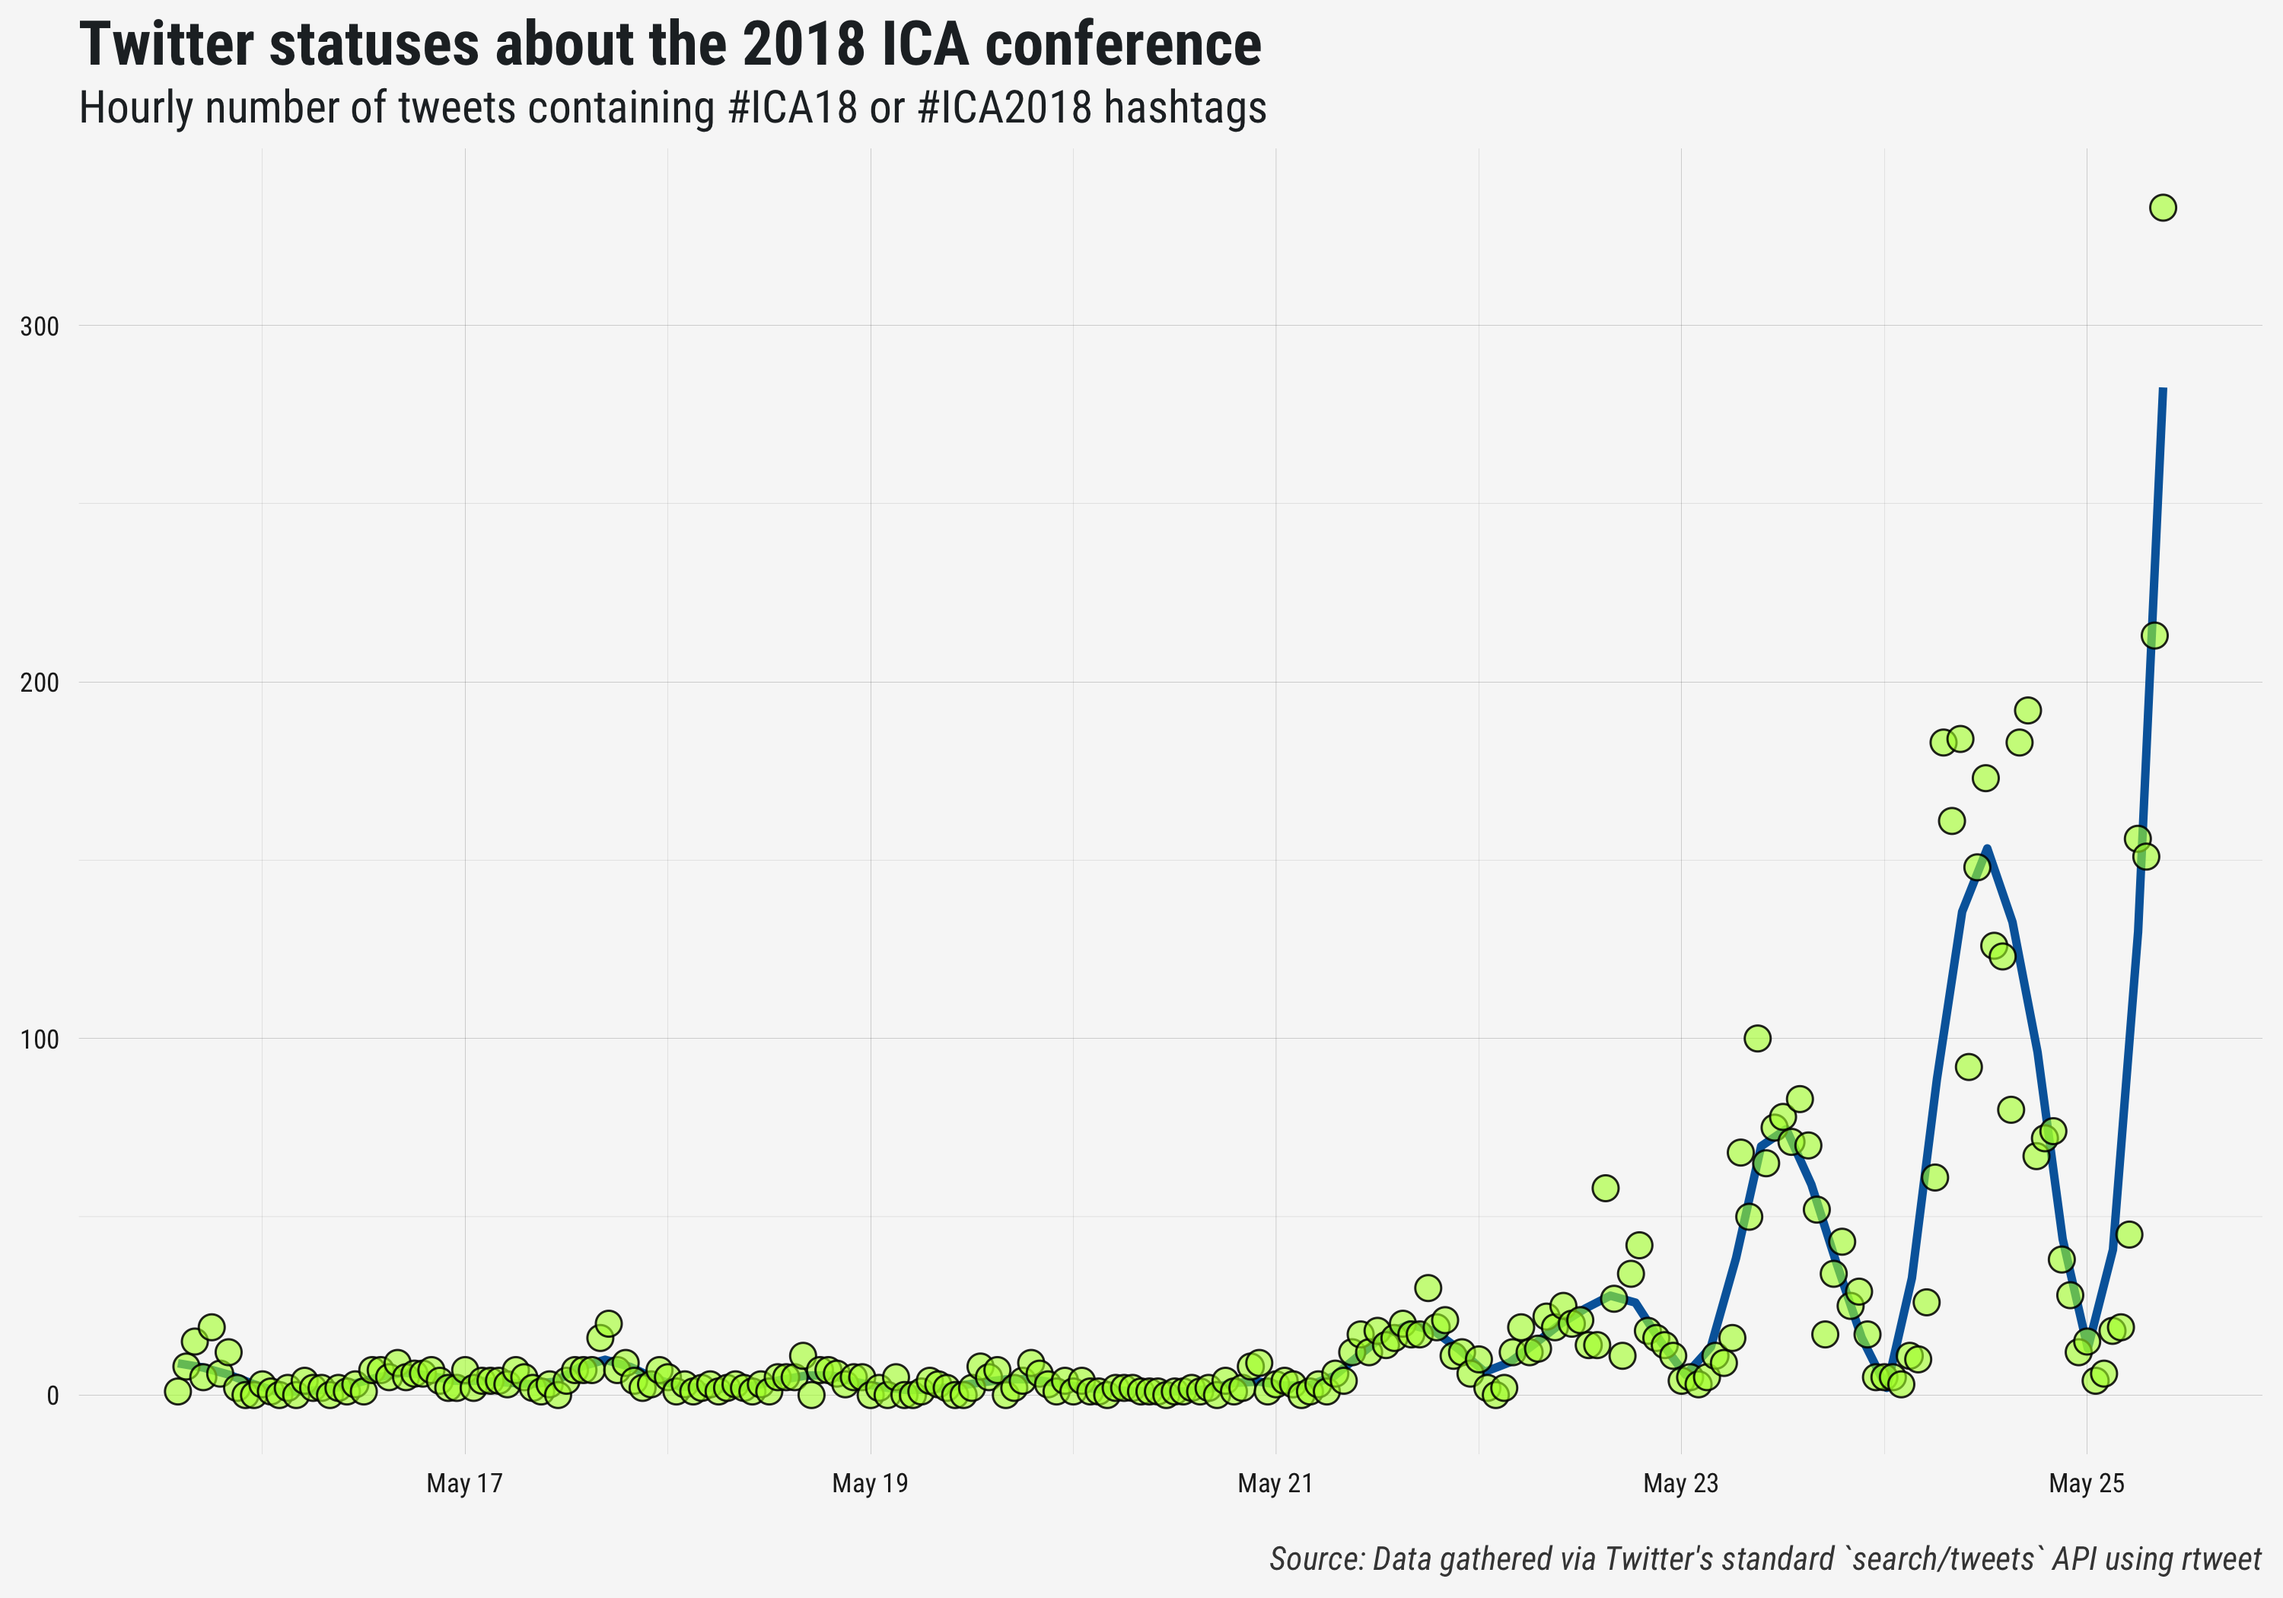
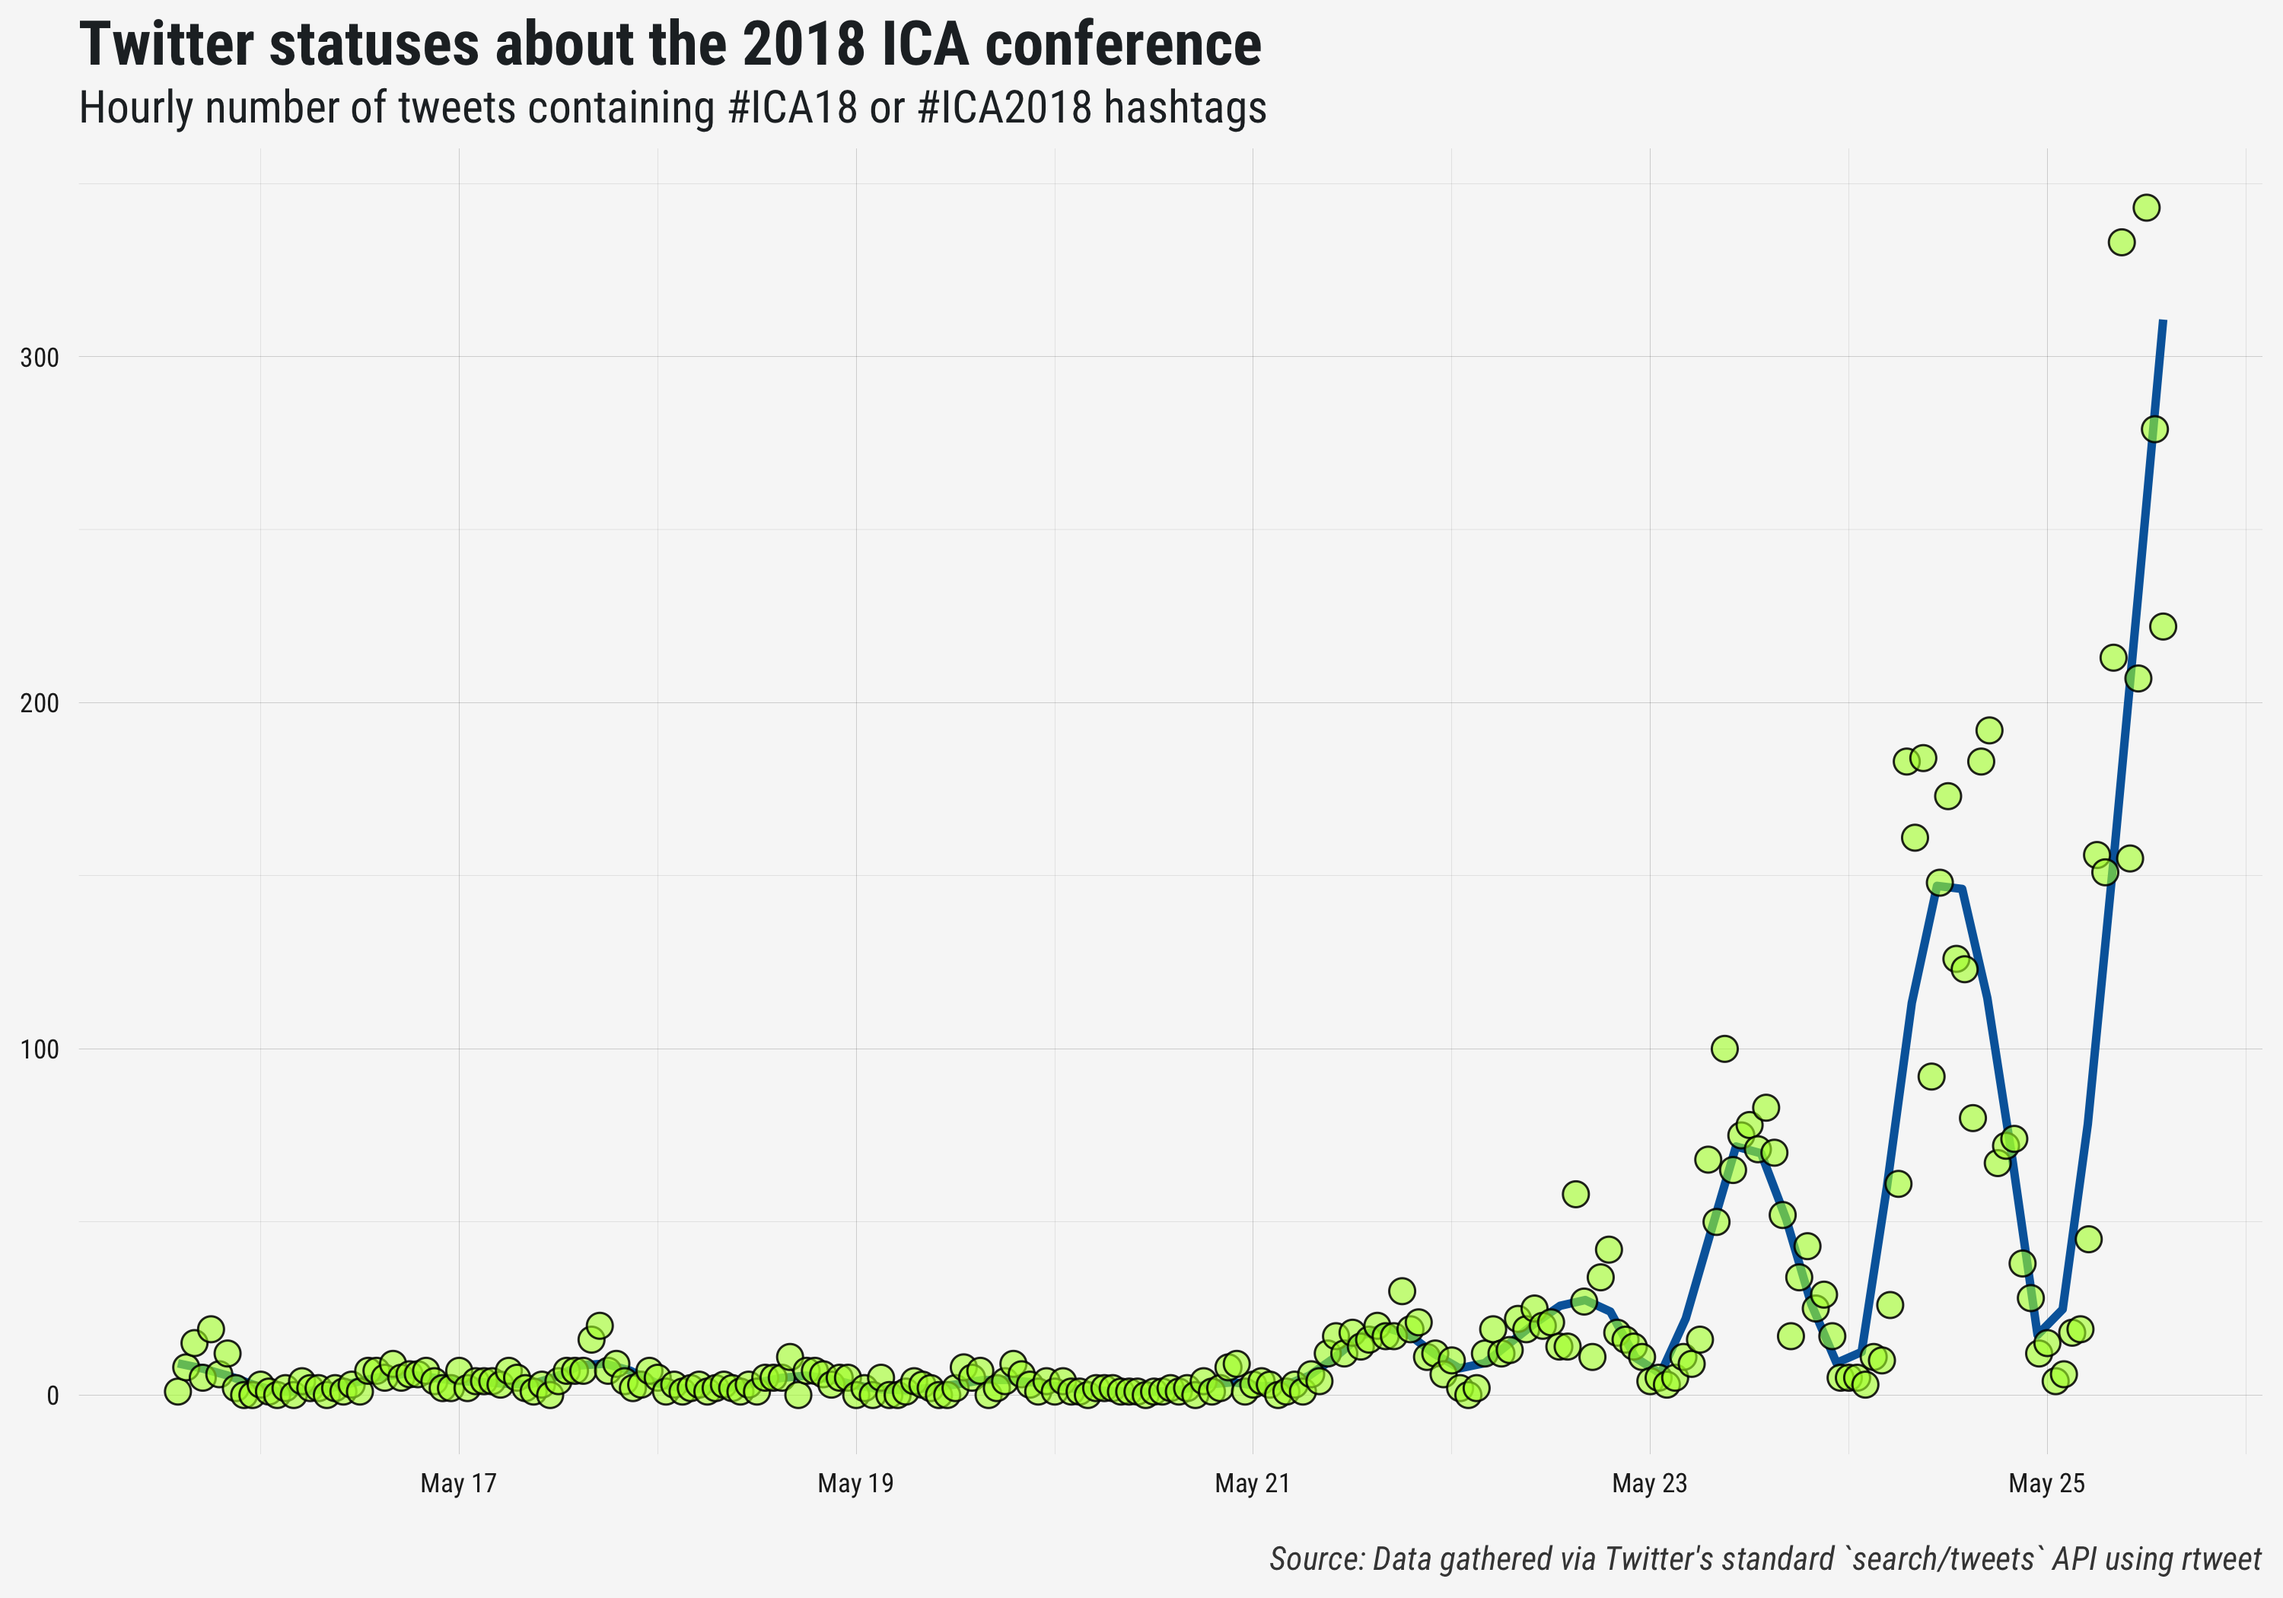
update

Changed region(s): [[0.062, 0.2167, 0.961, 0.9595], [0.93, 0.1238, 0.961, 0.1548]]

diff --git a/README.md b/README.md
@@ -40,20 +40,20 @@ saveRDS(ica, file.path("data", "ica18.rds"))
 
 ## view data
 ica
-#> # A tibble: 5,203 x 87
+#> # A tibble: 6,599 x 87
 #>    user_id  status_id created_at          screen_name text          source
 #>    <chr>    <chr>     <dttm>              <chr>       <chr>         <chr> 
-#>  1 14464346 99995633… 2018-05-25 10:12:23 dragz       RT @Hermida:… Twitt…
-#>  2 1699604… 99995654… 2018-05-25 10:13:12 rasmus_kle… "Want to lea… Twitt…
-#>  3 1699604… 99995653… 2018-05-25 10:13:11 rasmus_kle… "People inci… Twitt…
-#>  4 16996332 99995623… 2018-05-25 10:11:59 NaledgeEva… Today's high… Twitt…
-#>  5 27914459 99995660… 2018-05-25 10:13:26 shotinshan… @josh_braun … Twitt…
-#>  6 3646935… 99995640… 2018-05-25 10:12:40 ICA_Langua… RT @icahdq: … Twitt…
-#>  7 3646935… 99995631… 2018-05-25 10:12:17 ICA_Langua… RT @k_brownl… Twitt…
-#>  8 88436629 99995625… 2018-05-25 10:12:04 StineEckert RT @ICA_FSD:… Twitt…
-#>  9 9192272  99995654… 2018-05-25 10:13:14 monrodrigu… RT @aschrock… Twitt…
-#> 10 14271015 99995533… 2018-05-25 10:08:23 Gusse       "RT @monrodr… Twitt…
-#> # ... with 5,193 more rows, and 81 more variables:
+#>  1 1000551… 99997766… 2018-05-25 11:37:08 agzocar     RT @poli_com… Twitt…
+#>  2 1010387… 99996295… 2018-05-25 10:38:42 lsangalang  RT @KarinFik… Twitt…
+#>  3 1010387… 99997151… 2018-05-25 11:12:43 lsangalang  RT @KarinFik… Twitt…
+#>  4 10112612 10000134… 2018-05-25 13:59:25 herrfischer "RT @Jules_a… Twitt…
+#>  5 1021994… 99999535… 2018-05-25 12:47:25 BritaYtreA… "RT @SethCLe… Twitt…
+#>  6 1021994… 10000117… 2018-05-25 13:52:46 BritaYtreA… And #ica2018… Twitt…
+#>  7 1024842… 99998995… 2018-05-25 12:25:58 pisotalus   Eilen mietin… Twitt…
+#>  8 1026787… 99999342… 2018-05-25 12:39:46 judyinthes… RT @bowmansp… Twitt…
+#>  9 1026787… 99999032… 2018-05-25 12:27:26 judyinthes… RT @anidr0id… Twitt…
+#> 10 1026787… 99996918… 2018-05-25 11:03:26 judyinthes… not sure whe… Twitt…
+#> # ... with 6,589 more rows, and 81 more variables:
 #> #   display_text_width <dbl>, reply_to_status_id <chr>,
 #> #   reply_to_user_id <chr>, reply_to_screen_name <chr>, is_quote <lgl>,
 #> #   is_retweet <lgl>, favorite_count <int>, retweet_count <int>,
